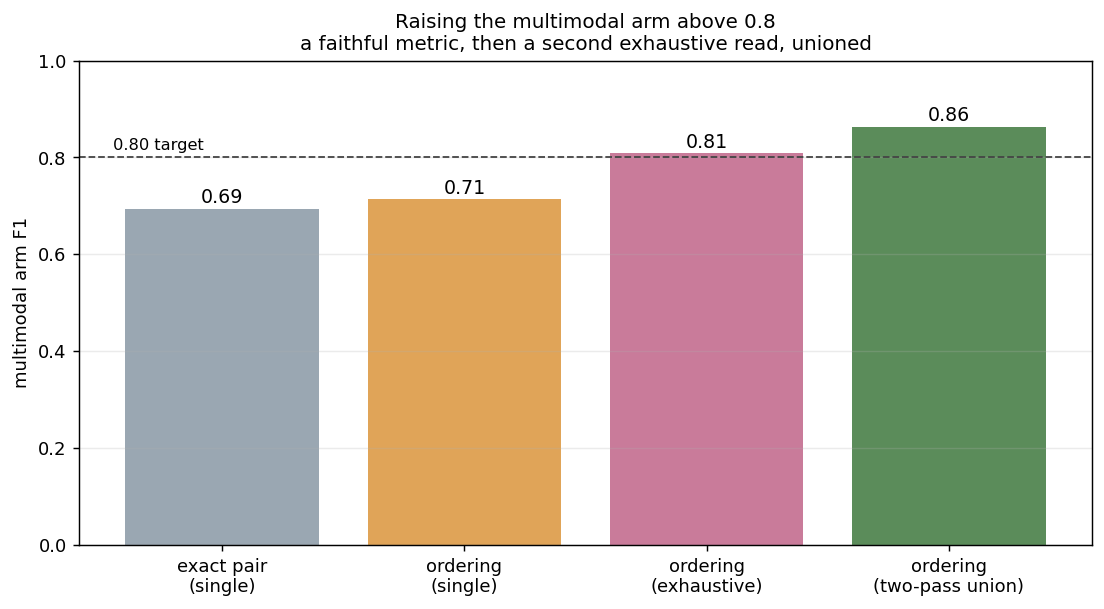
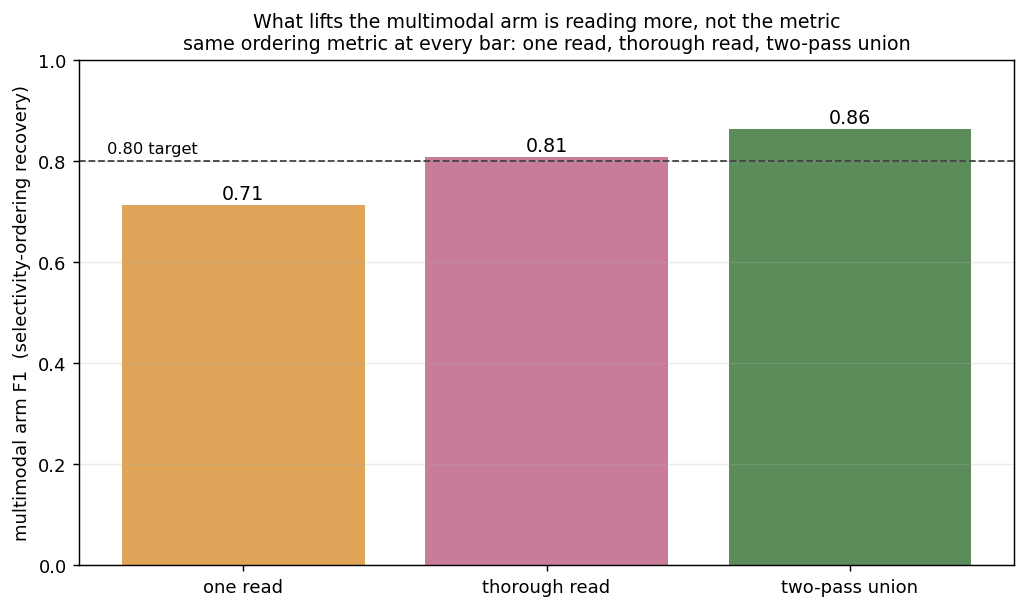
Reframe 2b climb: ordering recovery is the metric, not a lever (chart now 0.71/0.81/0.86, 0.69 is a footnote)

diff --git a/module_2b_multimodal_pdf/README.md b/module_2b_multimodal_pdf/README.md
@@ -30,10 +30,10 @@ Domain: 8 sensor papers from WetSenseBench (R. Ding et al.), each with curated p
 3. A controlled experiment: same worker, same prompt, text input vs image input, scored against gold.
 4. Honest chemical scoring: pair recall and precision, a synonym tolerant but isomer strict name matcher, direction, and figure or table grounding.
 5. The result: on clean born-digital papers the two arms are close. The image arm is more precise. On the scanned paper the text arm scores zero and only the image arm works. Multimodal is not always better, but it is the only option when the text layer fails.
-6. Raising the multimodal arm from 0.69 to 0.86 honestly: a selectivity ordering recovery metric (the exact pair metric is unfair when the gold curates its pairs unevenly), plus a two pass read with an exhaustive prompt.
+6. Scoring by selectivity ordering recovery (the fair metric when the gold curates its pairs unevenly; exact pair matching is not), then lifting the multimodal arm to 0.86 by reading thoroughly and unioning two reads.
 
 ## Result
-Controlled experiment, pooled over 97 curated pairwise labels from `data/gold/*.json`: text F1 0.68, image F1 0.69, with the image arm more precise (0.81 vs 0.68). `data/pairs_gold.csv` is a 92-row RAPIDS comparison subset and is kept for reference, so its row count is not the scoring denominator. On the scanned paper the text arm scores 0.00 and the image arm 0.80. Raising the multimodal arm: under selectivity ordering recovery, a two pass read reaches F1 0.86 (recall 0.79, precision 0.95), up from 0.69. Extraction passes cost about 0.20 dollars total on the worker.
+Controlled experiment, pooled over 97 curated pairwise labels from `data/gold/*.json`: text F1 0.68, image F1 0.69, with the image arm more precise (0.81 vs 0.68). `data/pairs_gold.csv` is a 92-row RAPIDS comparison subset and is kept for reference, so its row count is not the scoring denominator. On the scanned paper the text arm scores 0.00 and the image arm 0.80. Under selectivity ordering recovery (the fair metric for this unevenly labeled gold, used throughout), the image arm goes from 0.71 on a single read to 0.86 by reading thoroughly and unioning two reads (recall 0.79, precision 0.95); naive exact pair matching would score the same extraction at only 0.69 by penalizing correct pairs the gold did not list. Extraction passes cost about 0.20 dollars total on the worker.
 
 ## Citation
 Data and task adapted from WetSenseBench and the T3 text to data project (R. Ding et al.). Cite the corresponding work when using this material.